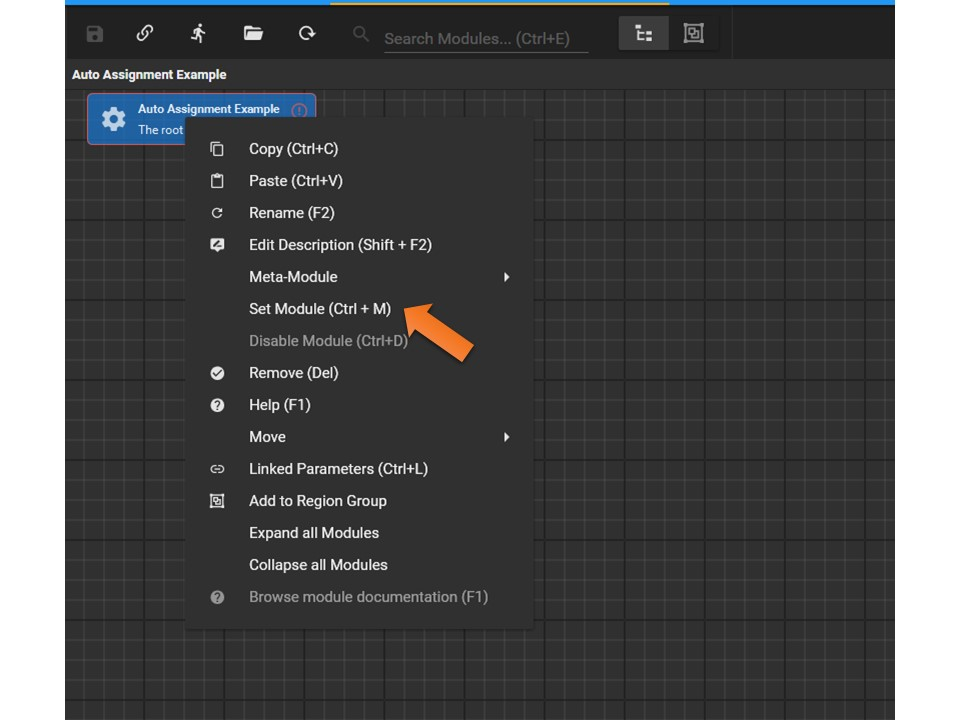
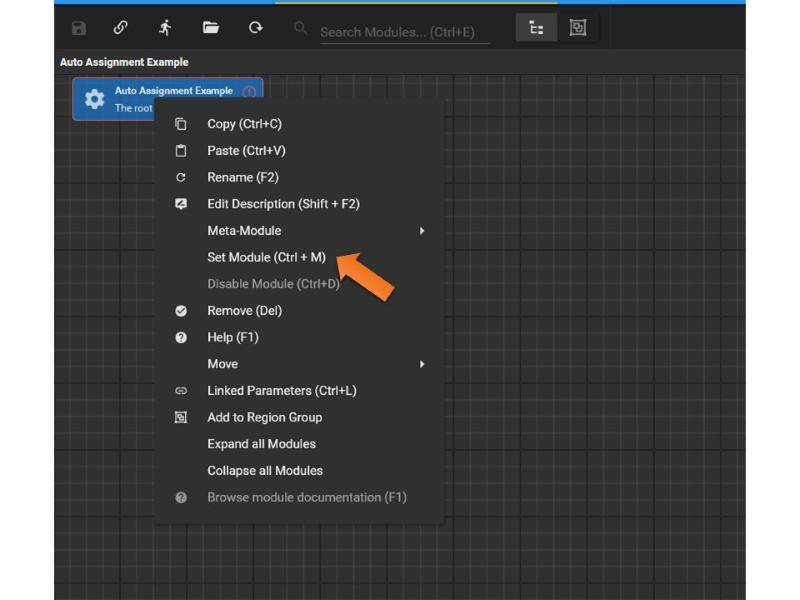
Adjust the picture size in tutorial/images

Changed region(s): [[0.3438, 0.0, 0.6875, 0.03]]

diff --git a/tmg-documentation/1.6/gtamodel/user_guide/tutorials/Run.md b/tmg-documentation/1.6/gtamodel/user_guide/tutorials/Run.md
@@ -4,16 +4,21 @@
 You may expand all modules or collapse parts of modules as needed.<br />
 ![alt text](images/Slide46.jpg "Collapse all Modules")
 <br />
+<br />
+
 ## 2. Save the modifications and Run the entire model system
 ![alt text](images/Slide47.jpg "Save and Run the model system")
+<br />
 <br />
 The Scheduler screen will look like the following:<br />
 ![alt text](images/Slide48.jpg "Scheduler screen")
 <br />
+<br />
 Once the Run is completed, you may click *Run output* to open the outputs folder and view results:<br />
 ![alt text](images/Slide49.jpg "Open the outputs folder")
 <br />
-The results matrices in the outputs folder:
+<br />
+The results matrices in the outputs folder:<br />
 ![alt text](images/Slide50.jpg "Results matrices")
 
 
